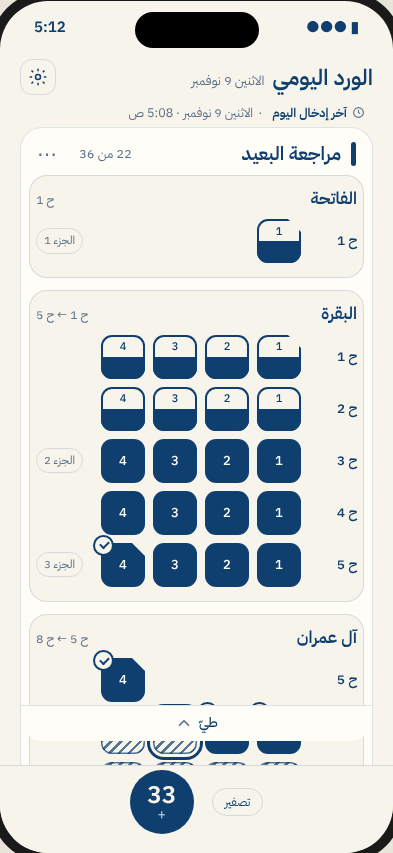
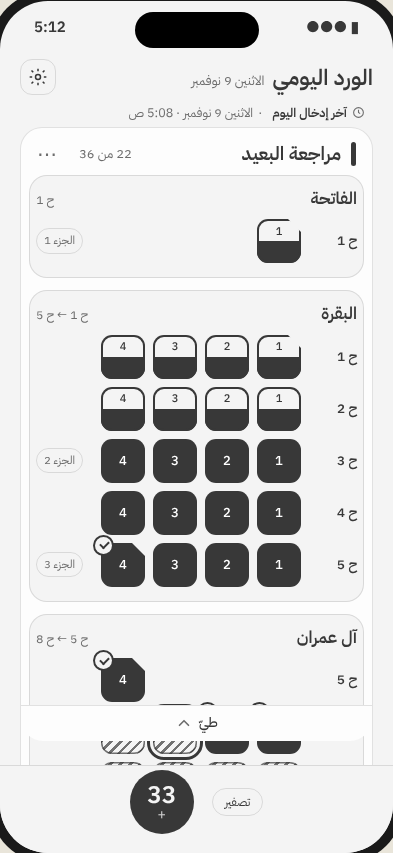
المصمّم · ش0 · 6: لقطات رمادية حقيقية (شرط المدقّق)
Claude-Session: https://claude.ai/code/session_01RdLZ28h7xinUMQ1HJNxsgp

diff --git a/docs/logs/المصمّم.md b/docs/logs/المصمّم.md
@@ -43,3 +43,12 @@
 - م13 (همز «الانسان» و«الإنفطار» و«الإنشقاق») في الجدول، فهي لمُعدّ البيانات مع س4. وصفحات التصميم تأخذ الأسماء من الجدول، فتصحّ بإعادة تشغيل `design/tools/build_quran_js.py`.
 
 التالي: المدقّق · ش0 · نظام التصميم
+
+---
+
+## 9 نوفمبر 2026 · ش0 · المرحلة 6: شرط المدقّق
+- النسخ الرمادية الإحدى عشرة في `design/shots/` كانت مطابقة للملوّنة بايتاً ببايت: كنت أطلب الرمادي بتغيير `#gray` في الرابط، والمتصفّح لا يعيد تحميل الصفحة لتغيّر الرابط بعد #، فلا يُشغَّل الزرّ. أعدت تصويرها بإضافة صنف الرمادي مباشرة، وتحقّقت أنها تختلف كلها عن الملوّنة، وأن كل بكسل داخل الشاشة رمادي (ما بقي من لون لا يتجاوز 15 من 255، وهو في زوايا الصورة خارج حدّ الشاشة المستدير، من خلفية الصفحة).
+- م14 أُصلح قبلُ في f816559.
+- أنتظر دمج #19 (أسماء السور) لأعيد توليد `design/shared/quran.js`.
+
+التالي: المدقّق · ش0 · نظام التصميم
